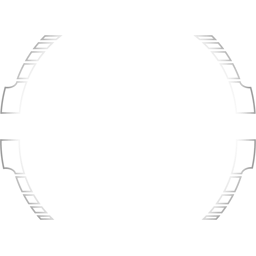
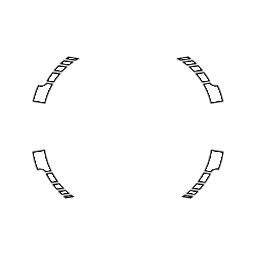
-Updated system mouseover reticle image -Updated MSVC project files -Made fleetbuttons' default size a bit smaller... larger size was accidentally committed, and only really worked when halos were used, which currently are not by default -Shortened names of a few techs

diff --git a/FreeOrion/UI/ClientUI.cpp b/FreeOrion/UI/ClientUI.cpp
@@ -218,7 +218,7 @@ namespace {
         // misc
         db.Add("UI.scroll-width", "OPTIONS_DB_UI_SCROLL_WIDTH", 14, RangedValidator<int>(8, 30));
         db.Add("UI.system-icon-size", "OPTIONS_DB_UI_SYSTEM_ICON_SIZE", 14, RangedValidator<int>(8, 50));
-        db.Add("UI.fleet-button-size", "OPTIONS_DB_UI_FLEET_BUTTON_SIZE", 0.5, RangedValidator<double>(0.2, 2));
+        db.Add("UI.fleet-button-size", "OPTIONS_DB_UI_FLEET_BUTTON_SIZE", 0.3, RangedValidator<double>(0.2, 2));
         db.Add("UI.system-selection-indicator-size", "OPTIONS_DB_UI_SYSTEM_SELECTION_INDICATOR_SIZE", 2.0, RangedValidator<double>(0.5, 5));
         
         // tech category colors
